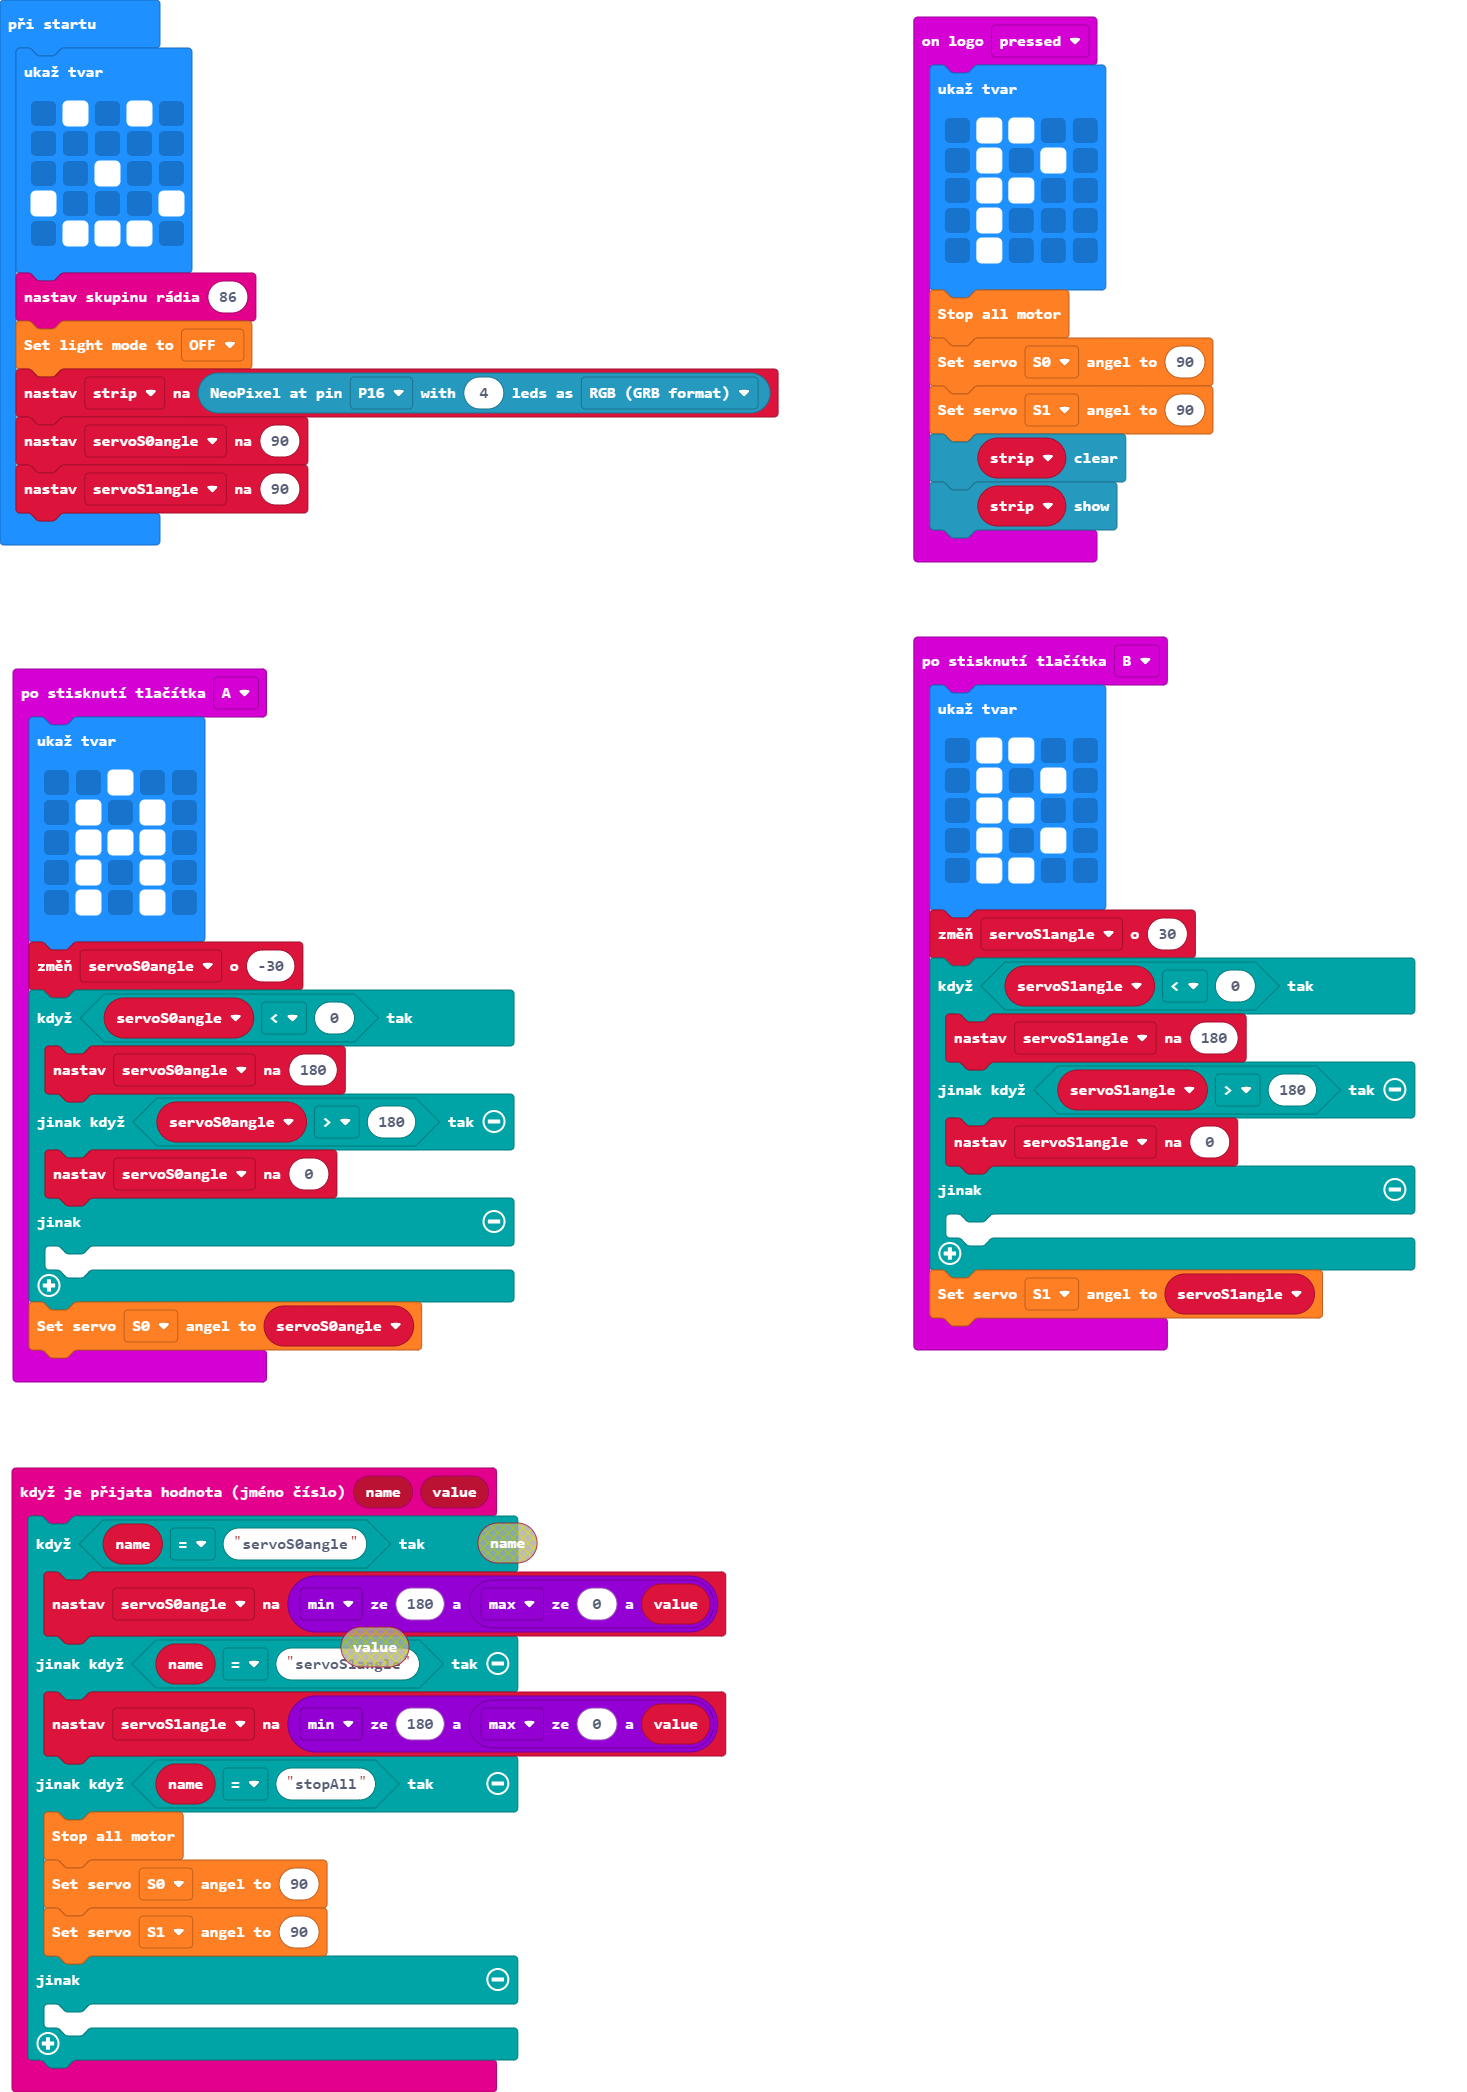
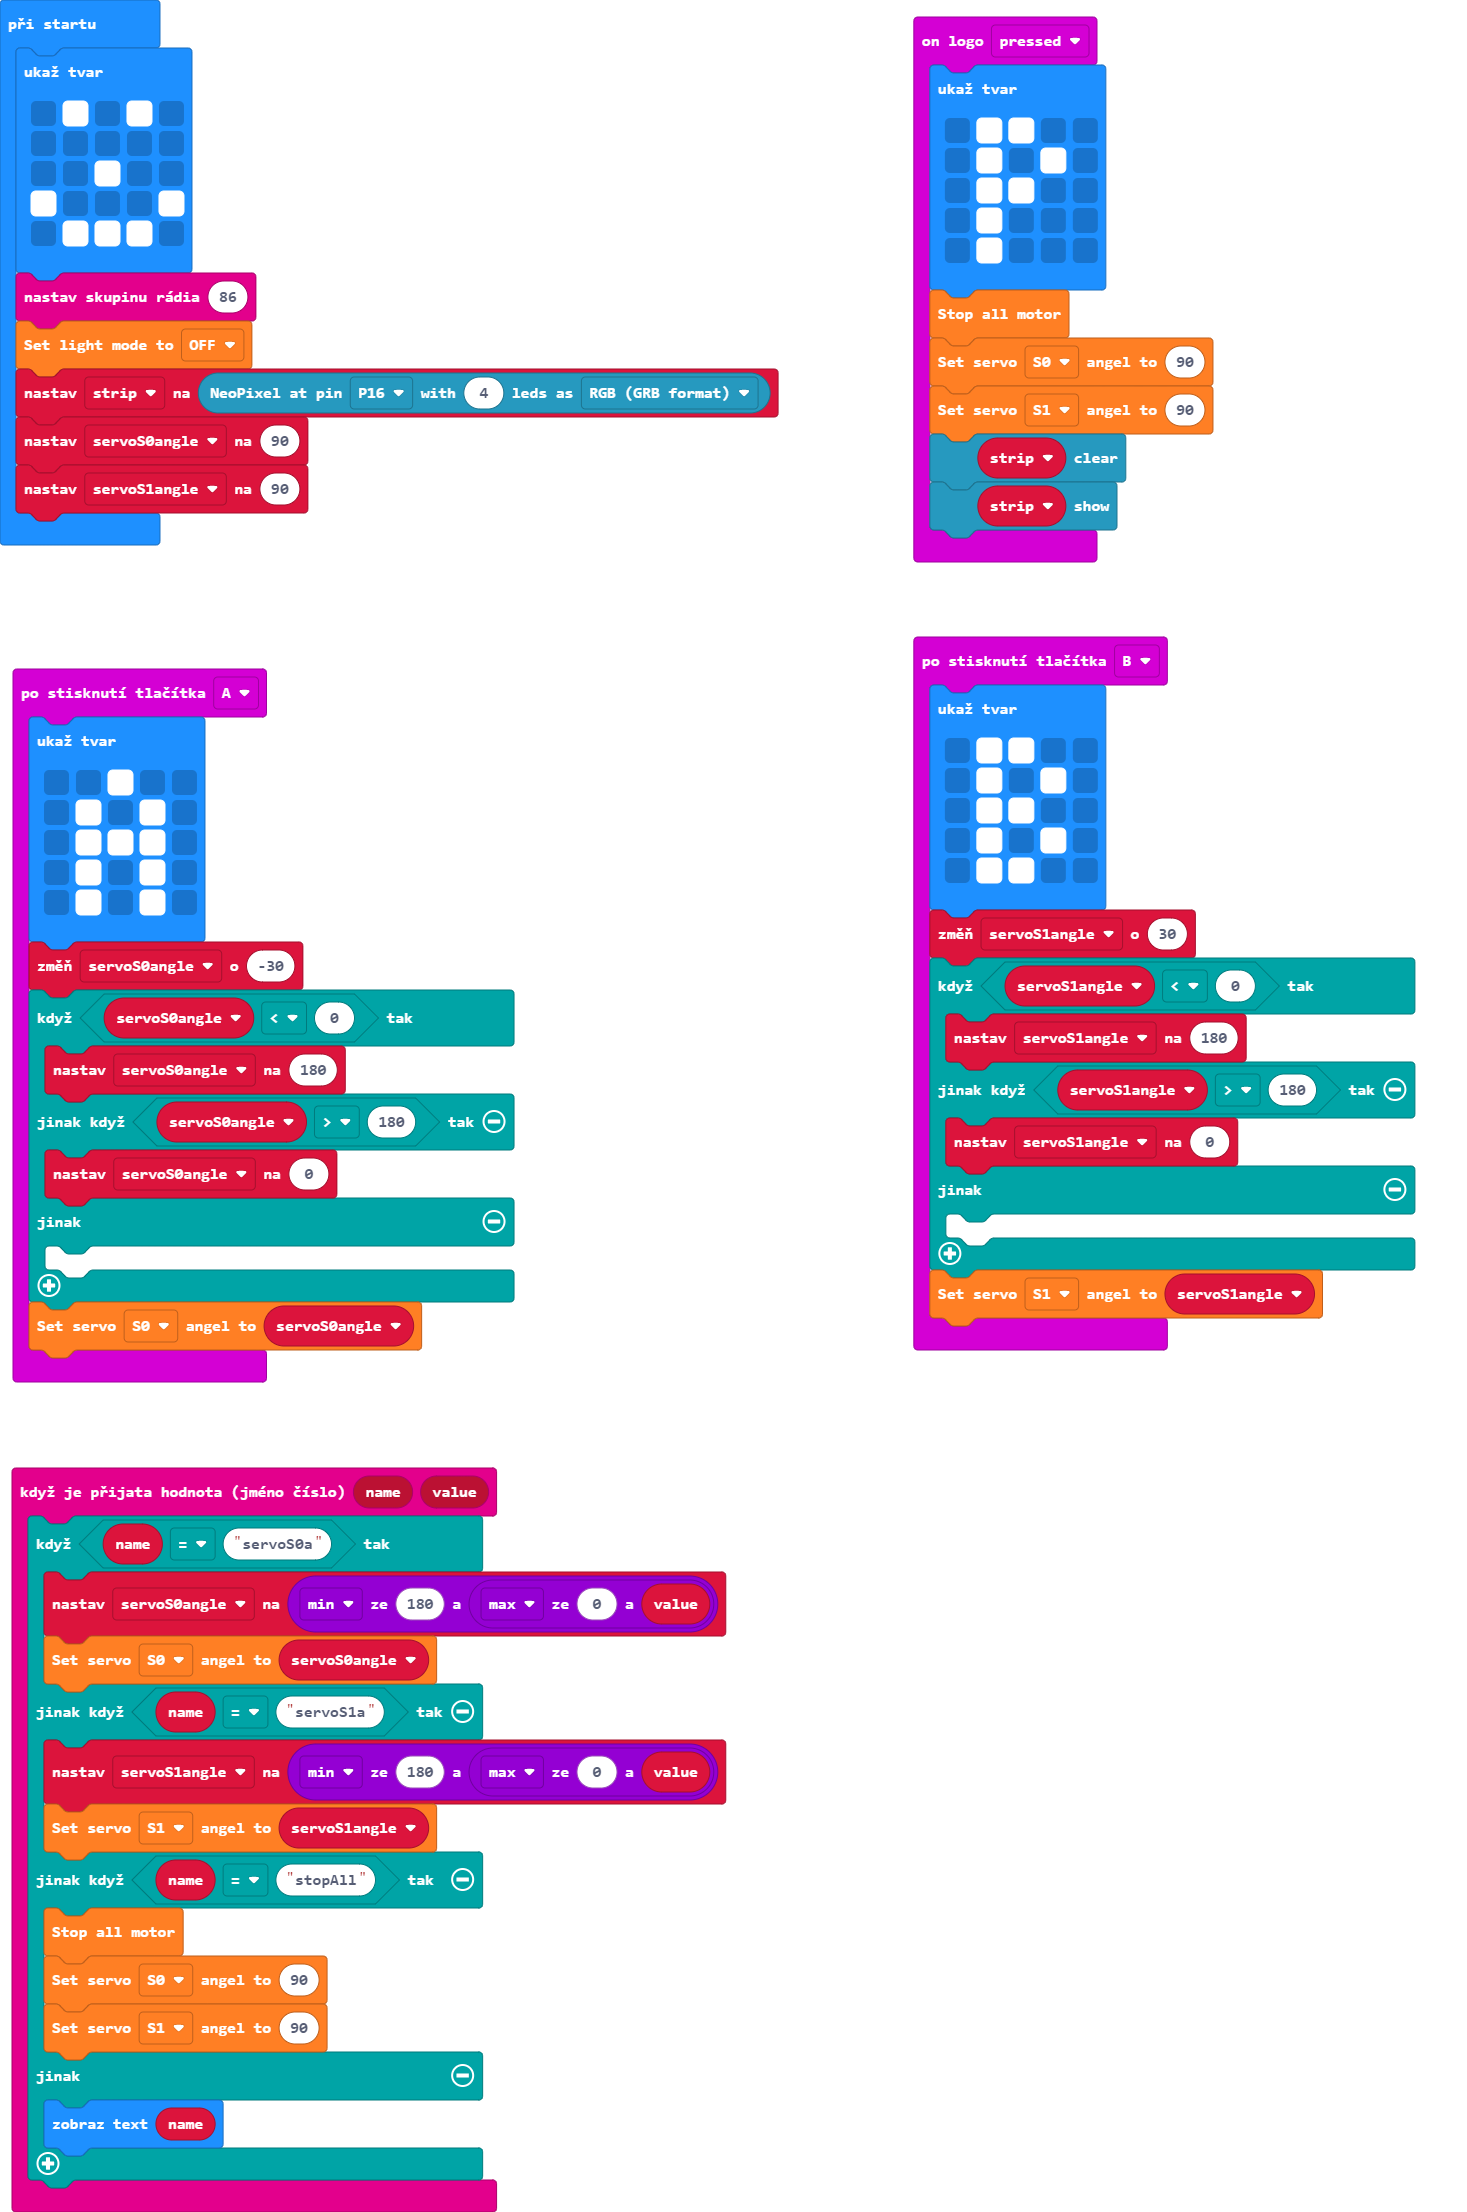
Update main.blocks, main.ts

Changed region(s): [[0.0, 0.0, 0.5521, 0.9943], [0.6135, 0.0, 0.9816, 0.6525]]

diff --git a/main.ts b/main.ts
@@ -35,16 +35,18 @@ input.onButtonPressed(Button.B, function () {
     wuKong.setServoAngel(wuKong.ServoList.S1, servoS1angle)
 })
 radio.onReceivedValue(function (name, value) {
-    if (name == "servoS0angle") {
+    if (name == "servoS0a") {
         servoS0angle = Math.min(180, Math.max(0, value))
-    } else if (name == "servoS1angle") {
+        wuKong.setServoAngel(wuKong.ServoList.S0, servoS0angle)
+    } else if (name == "servoS1a") {
         servoS1angle = Math.min(180, Math.max(0, value))
+        wuKong.setServoAngel(wuKong.ServoList.S1, servoS1angle)
     } else if (name == "stopAll") {
         wuKong.stopAllMotor()
         wuKong.setServoAngel(wuKong.ServoList.S0, 90)
         wuKong.setServoAngel(wuKong.ServoList.S1, 90)
     } else {
-    	
+        basic.showString(name)
     }
 })
 input.onLogoEvent(TouchButtonEvent.Pressed, function () {
